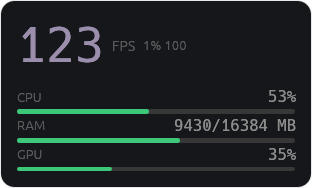
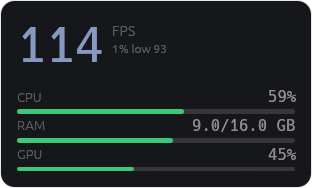
Design pass from the screenshots
- Memory reads compact: 9.2/16.0 GB, not 9430/16384 MB.
- Hero reworked: big number beside a stacked FPS / 1% low label.
- Temperature values carry a thermal tint (green->amber->red), so a hot
  reading reads at a glance like a load bar.

All TDD (model/theme tests). Re-captured the four README screenshots.

diff --git a/src/gui/model.rs b/src/gui/model.rs
@@ -8,6 +8,7 @@
 use crate::hw::HwStats;
 
 use super::config::Density;
+use super::theme::{self, Rgb};
 
 /// One rendered metric row.
 #[derive(Debug, Clone, PartialEq)]
@@ -18,6 +19,8 @@ pub struct Metric {
     pub value: String,
     /// A `0..=1` fill fraction for a bar, when the metric is a proportion.
     pub fraction: Option<f32>,
+    /// An explicit text tint (temperature rows), else the theme default.
+    pub tint: Option<Rgb>,
 }
 
 /// The display rows for one sample, in display order.
@@ -27,36 +30,43 @@ pub fn rows(s: &HwStats) -> Vec<Metric> {
             label: "CPU",
             value: pct(s.cpu_percent),
             fraction: Some((s.cpu_percent / 100.0).clamp(0.0, 1.0)),
+            tint: None,
         },
         Metric {
             label: "CPU temp",
             value: opt_f32(s.cpu_temp_c, "°C"),
             fraction: None,
+            tint: s.cpu_temp_c.map(theme::temp_color),
         },
         Metric {
             label: "RAM",
-            value: pair_mb(s.ram_used_mb, s.ram_total_mb),
+            value: pair_mem(s.ram_used_mb, s.ram_total_mb),
             fraction: ratio(s.ram_used_mb, s.ram_total_mb),
+            tint: None,
         },
         Metric {
             label: "GPU",
             value: s.gpu_percent.map(pct).unwrap_or_else(dashes),
             fraction: s.gpu_percent.map(|p| (p / 100.0).clamp(0.0, 1.0)),
+            tint: None,
         },
         Metric {
             label: "GPU temp",
             value: opt_f32(s.gpu_temp_c, "°C"),
             fraction: None,
+            tint: s.gpu_temp_c.map(theme::temp_color),
         },
         Metric {
             label: "VRAM",
-            value: pair_mb(s.gpu_vram_used_mb, s.gpu_vram_total_mb),
+            value: pair_mem(s.gpu_vram_used_mb, s.gpu_vram_total_mb),
             fraction: ratio(s.gpu_vram_used_mb, s.gpu_vram_total_mb),
+            tint: None,
         },
         Metric {
             label: "GPU power",
             value: opt_f32(s.gpu_power_w, "W"),
             fraction: None,
+            tint: None,
         },
     ]
 }
@@ -90,9 +100,13 @@ fn opt_f32(v: Option<f32>, unit: &str) -> String {
     v.map(|v| format!("{v:.0}{unit}")).unwrap_or_else(dashes)
 }
 
-/// `used/total MB`, or `--` unless both are known.
-fn pair_mb(used: Option<u64>, total: Option<u64>) -> String {
+/// `used/total` with a single unit — GB above a GiB, else MB — or `--` unless
+/// both are known.
+fn pair_mem(used: Option<u64>, total: Option<u64>) -> String {
     match (used, total) {
+        (Some(u), Some(t)) if t >= 1024 => {
+            format!("{:.1}/{:.1} GB", u as f32 / 1024.0, t as f32 / 1024.0)
+        }
         (Some(u), Some(t)) => format!("{u}/{t} MB"),
         _ => dashes(),
     }
@@ -196,13 +210,13 @@ mod tests {
             ..HwStats::default()
         };
         let m = row(&rows(&s), "RAM").clone();
-        assert_eq!(m.value, "8192/16384 MB");
+        assert_eq!(m.value, "8.0/16.0 GB");
         assert_eq!(m.fraction, Some(0.5));
     }
 
     #[test]
     fn ram_row_is_dashes_without_both_numbers() {
-        // Catches: showing "8192/-- MB" (or a bar) when the total is unknown.
+        // Catches: showing "8192/--" (or a bar) when the total is unknown.
         let s = HwStats {
             ram_used_mb: Some(8192),
             ..HwStats::default()
@@ -210,6 +224,17 @@ mod tests {
         let m = row(&rows(&s), "RAM").clone();
         assert_eq!(m.value, "--");
         assert_eq!(m.fraction, None);
+    }
+
+    #[test]
+    fn small_memory_stays_in_megabytes() {
+        // Catches: forcing GB on small values (a confusing "0.5/0.9 GB").
+        let s = HwStats {
+            ram_used_mb: Some(512),
+            ram_total_mb: Some(900),
+            ..HwStats::default()
+        };
+        assert_eq!(row(&rows(&s), "RAM").value, "512/900 MB");
     }
 
     #[test]
@@ -221,7 +246,7 @@ mod tests {
             ..HwStats::default()
         };
         let m = row(&rows(&s), "VRAM").clone();
-        assert_eq!(m.value, "3000/8192 MB");
+        assert_eq!(m.value, "2.9/8.0 GB");
         assert_eq!(m.fraction, Some(3000.0 / 8192.0));
     }
 
@@ -258,5 +283,30 @@ mod tests {
             labels(&rows_for(Density::Full, &HwStats::default())),
             labels(&all)
         );
+    }
+
+    #[test]
+    fn temperature_rows_carry_a_thermal_tint() {
+        // Catches: a temperature rendering in the default colour (the "reads hot
+        // at a glance" promise lost) or a missing reading carrying a tint.
+        let hot = HwStats {
+            gpu_temp_c: Some(88.0),
+            ..HwStats::default()
+        };
+        assert_eq!(
+            row(&rows(&hot), "GPU temp").tint,
+            Some(theme::temp_color(88.0)),
+            "a hot temp must carry the thermal tint"
+        );
+        let cold_cpu = HwStats {
+            cpu_temp_c: Some(45.0),
+            ..HwStats::default()
+        };
+        assert_eq!(
+            row(&rows(&cold_cpu), "CPU temp").tint,
+            Some(theme::temp_color(45.0))
+        );
+        assert_eq!(row(&rows(&HwStats::default()), "GPU temp").tint, None);
+        assert_eq!(row(&rows(&HwStats::default()), "CPU").tint, None);
     }
 }

diff --git a/src/gui/app.rs b/src/gui/app.rs
@@ -193,17 +193,22 @@ fn hero(ui: &mut egui::Ui, snap: &Snapshot, accent: egui::Color32, scale: f32) {
                 .monospace()
                 .color(accent),
         );
-        ui.label(egui::RichText::new("FPS").size(12.0 * scale).weak());
-        if let Some(low) = snap.one_percent_low {
-            let shown =
-                ui.ctx()
-                    .animate_value_with_time(egui::Id::new("roll.low"), low as f32, ROLL_SECS);
-            ui.label(
-                egui::RichText::new(format!("1% {shown:.0}"))
-                    .size(11.0 * scale)
-                    .weak(),
-            );
-        }
+        ui.vertical(|ui| {
+            ui.add_space(4.0 * scale);
+            ui.label(egui::RichText::new("FPS").size(12.0 * scale).weak());
+            if let Some(low) = snap.one_percent_low {
+                let shown = ui.ctx().animate_value_with_time(
+                    egui::Id::new("roll.low"),
+                    low as f32,
+                    ROLL_SECS,
+                );
+                ui.label(
+                    egui::RichText::new(format!("1% low {shown:.0}"))
+                        .size(10.0 * scale)
+                        .weak(),
+                );
+            }
+        });
     });
 }
 
@@ -212,7 +217,11 @@ fn row(ui: &mut egui::Ui, m: &Metric, scale: f32) {
     ui.horizontal(|ui| {
         ui.label(egui::RichText::new(m.label).size(11.0 * scale).weak());
         ui.with_layout(egui::Layout::right_to_left(egui::Align::Center), |ui| {
-            ui.label(egui::RichText::new(&m.value).size(13.0 * scale).monospace());
+            let mut value = egui::RichText::new(&m.value).size(13.0 * scale).monospace();
+            if let Some(tint) = m.tint {
+                value = value.color(to_color(tint));
+            }
+            ui.label(value);
         });
     });
     if let Some(fraction) = m.fraction {

diff --git a/src/gui/theme.rs b/src/gui/theme.rs
@@ -46,6 +46,12 @@ pub fn load_color(fraction: f32) -> Rgb {
     }
 }
 
+/// A temperature tone: calm green when cool, amber when warm, red when hot, so
+/// a temperature reads at a glance like a load bar does.
+pub fn temp_color(temp_c: f32) -> Rgb {
+    load_color(((temp_c - 40.0) / 50.0).clamp(0.0, 1.0))
+}
+
 /// The accent to draw with: thermal follows the temperature, the rest are
 /// fixed. A thermal accent with no reading falls back to [`NEUTRAL`].
 pub fn resolve_accent(a: Accent, temp_c: Option<f32>) -> Rgb {
@@ -129,5 +135,18 @@ mod tests {
             resolve_accent(Accent::Cyan, Some(90.0)),
             accent_color(Accent::Cyan)
         );
+    }
+
+    #[test]
+    fn temp_color_reads_cool_then_hot() {
+        // Catches: a temp tint that never changes (the "reads hot at a glance"
+        // promise lost) or one inverted (a hot reading showing green).
+        assert!(is_greenish(temp_color(45.0)));
+        let warm = temp_color(72.0);
+        assert!(
+            warm[0] > warm[2] && warm[1] > warm[2],
+            "amber at 72: {warm:?}"
+        );
+        assert!(is_reddish(temp_color(88.0)));
     }
 }

diff --git a/gui.md b/gui.md
@@ -64,6 +64,7 @@ An OSD that looks like a piece of lab equipment, not a widget. Rules:
 15. [x] Clear the fps readout when the target is lost; log target changes.
 16. [x] Full-density FPS sparkline (`gui::spark` + fps history in the snapshot).
 17. [x] Demo mode (`MINIHUD_DEMO=1`) + README screenshots of four variations.
+18. [x] Design pass from the screenshots: compact memory, hero rework, temp tints.
 
 ## Progress log
 
@@ -164,3 +165,8 @@ An OSD that looks like a piece of lab equipment, not a widget. Rules:
   `MINIHUD_DEMO=1` makes `run_gui` feed them instead of the real pollers. Captured
   four variations through egui-mcp into `docs/` (zen/standard/full/full-magenta)
   and linked them in the README. Gate green (183 tests, both feature sets).
+- 2026-10-11: Design pass from the screenshots (item 18). Compact memory
+  (`9.2/16.0 GB`), a reworked hero (big number + stacked `FPS` / `1% low`), and
+  thermal tints on temperature values (`theme::temp_color`, `Metric.tint`) so a
+  hot reading reads at a glance like a load bar. All TDD. Re-captured the four
+  README screenshots. Gate green (186 tests, both feature sets).
